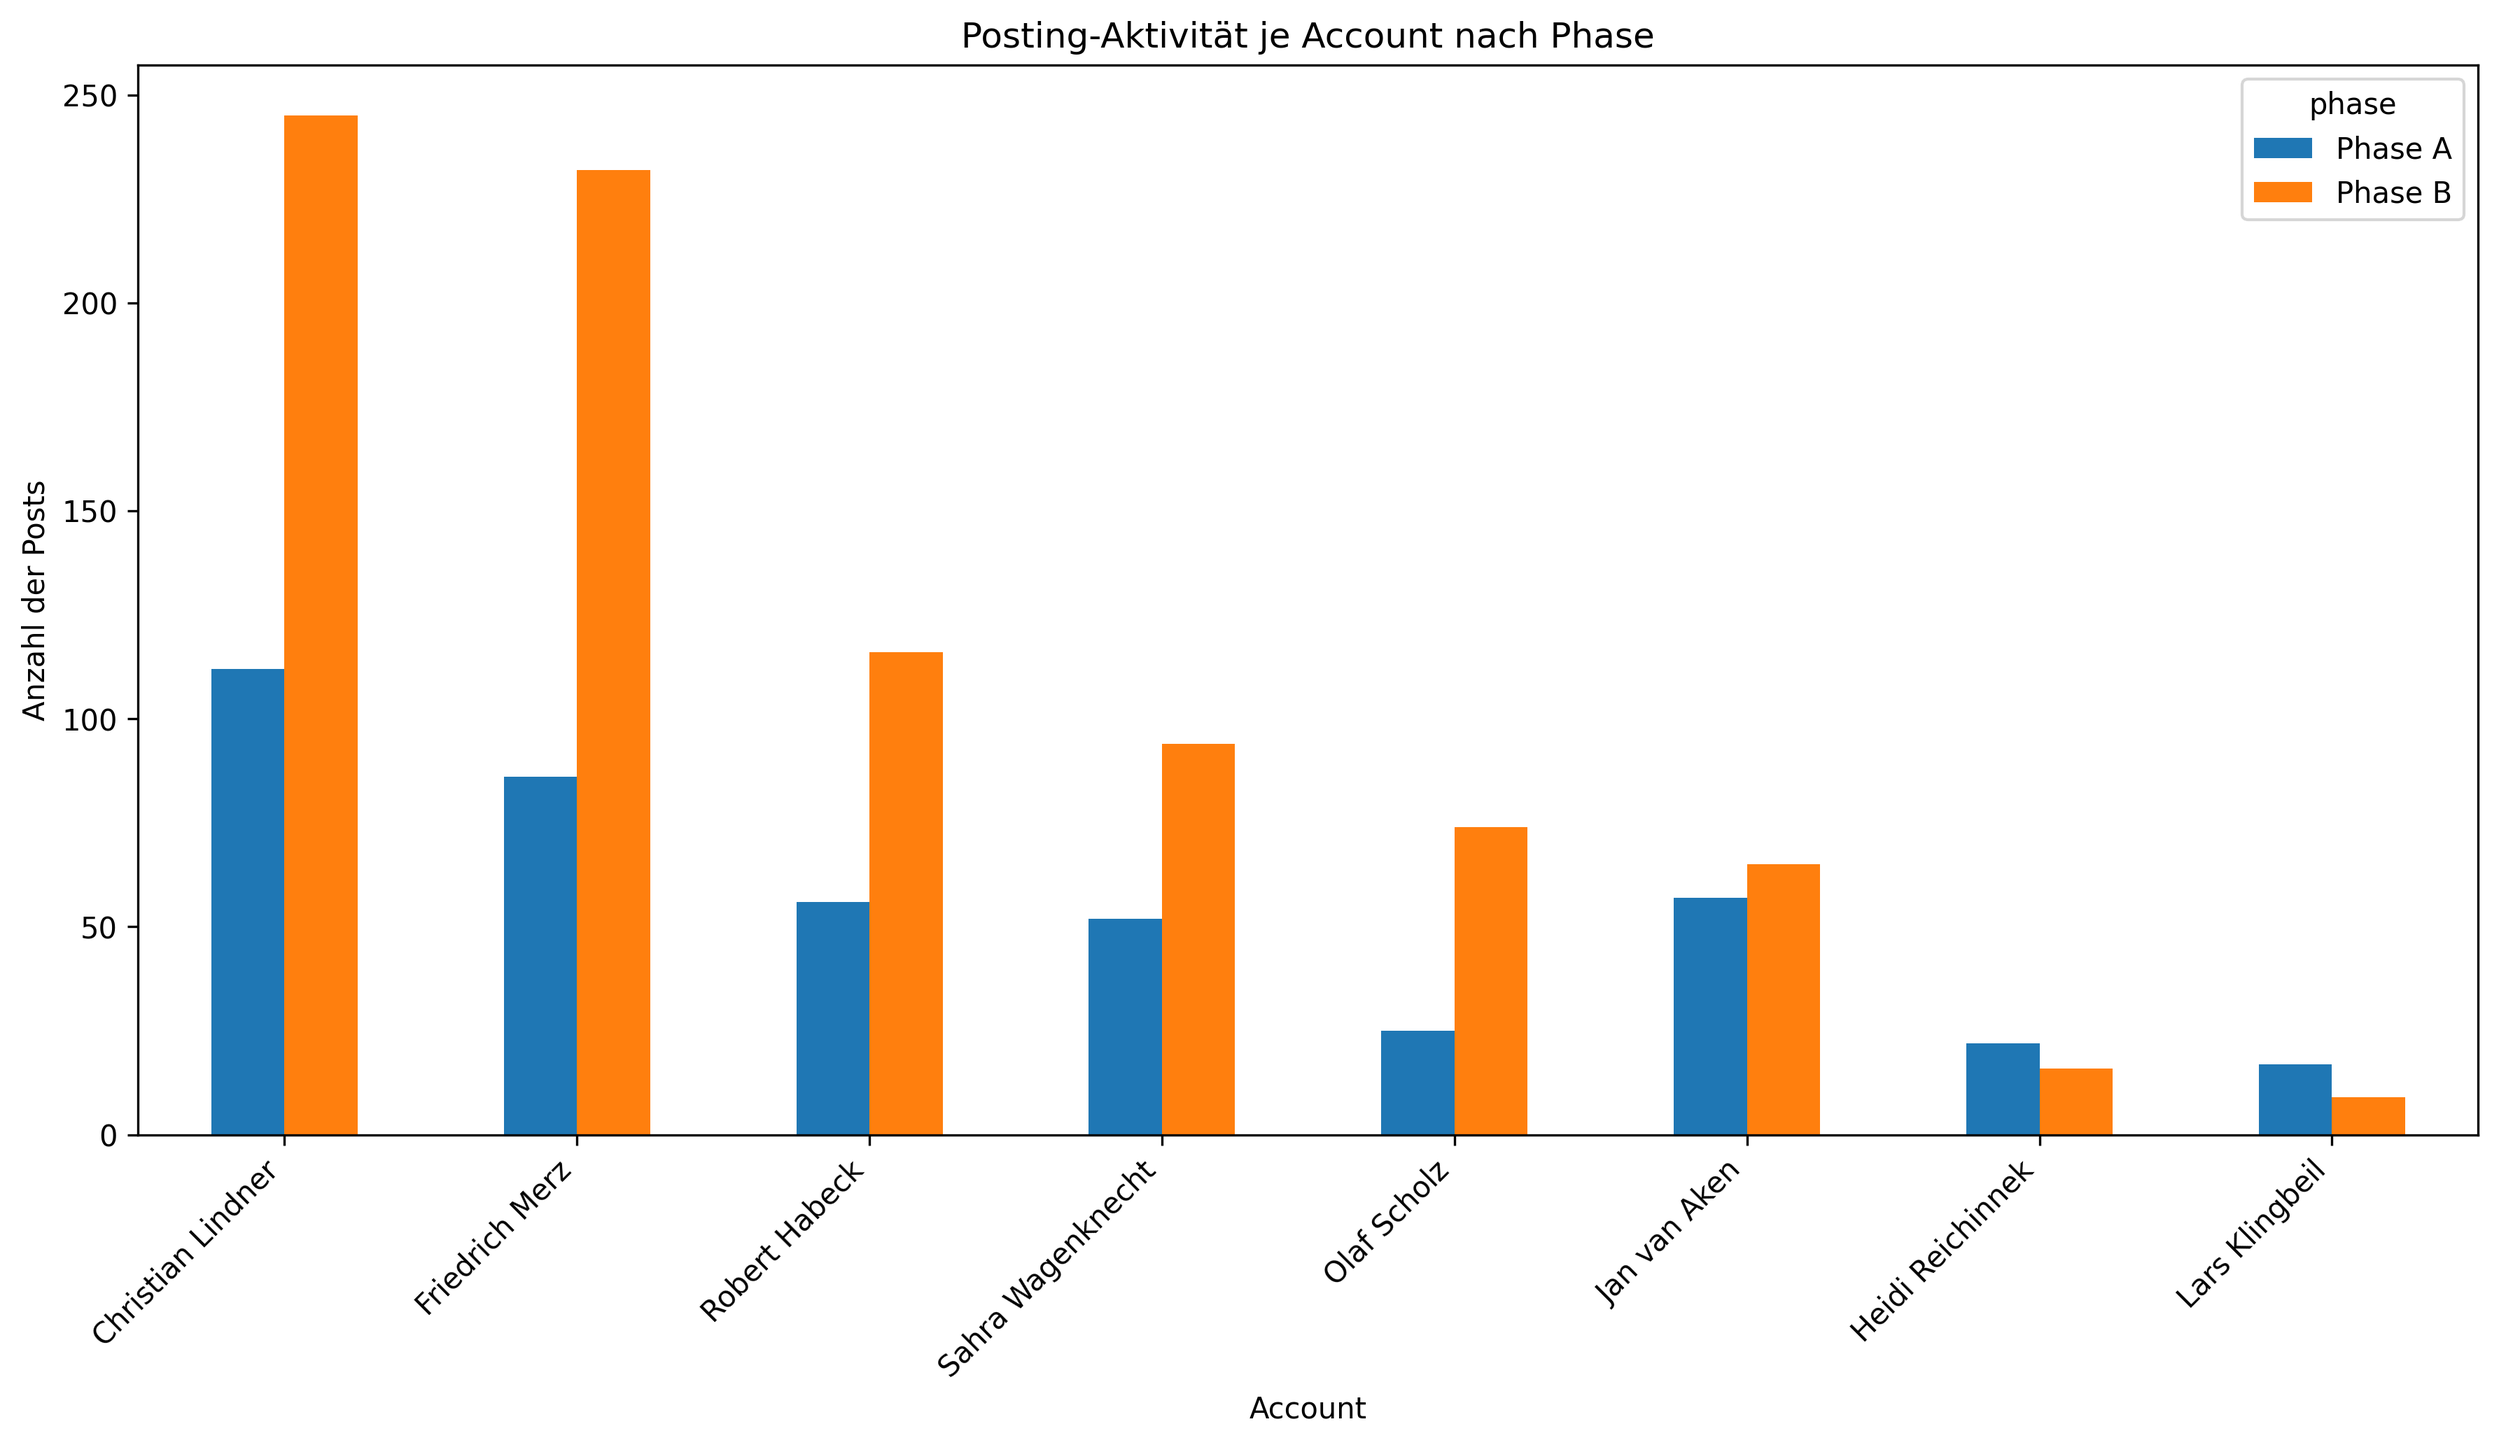
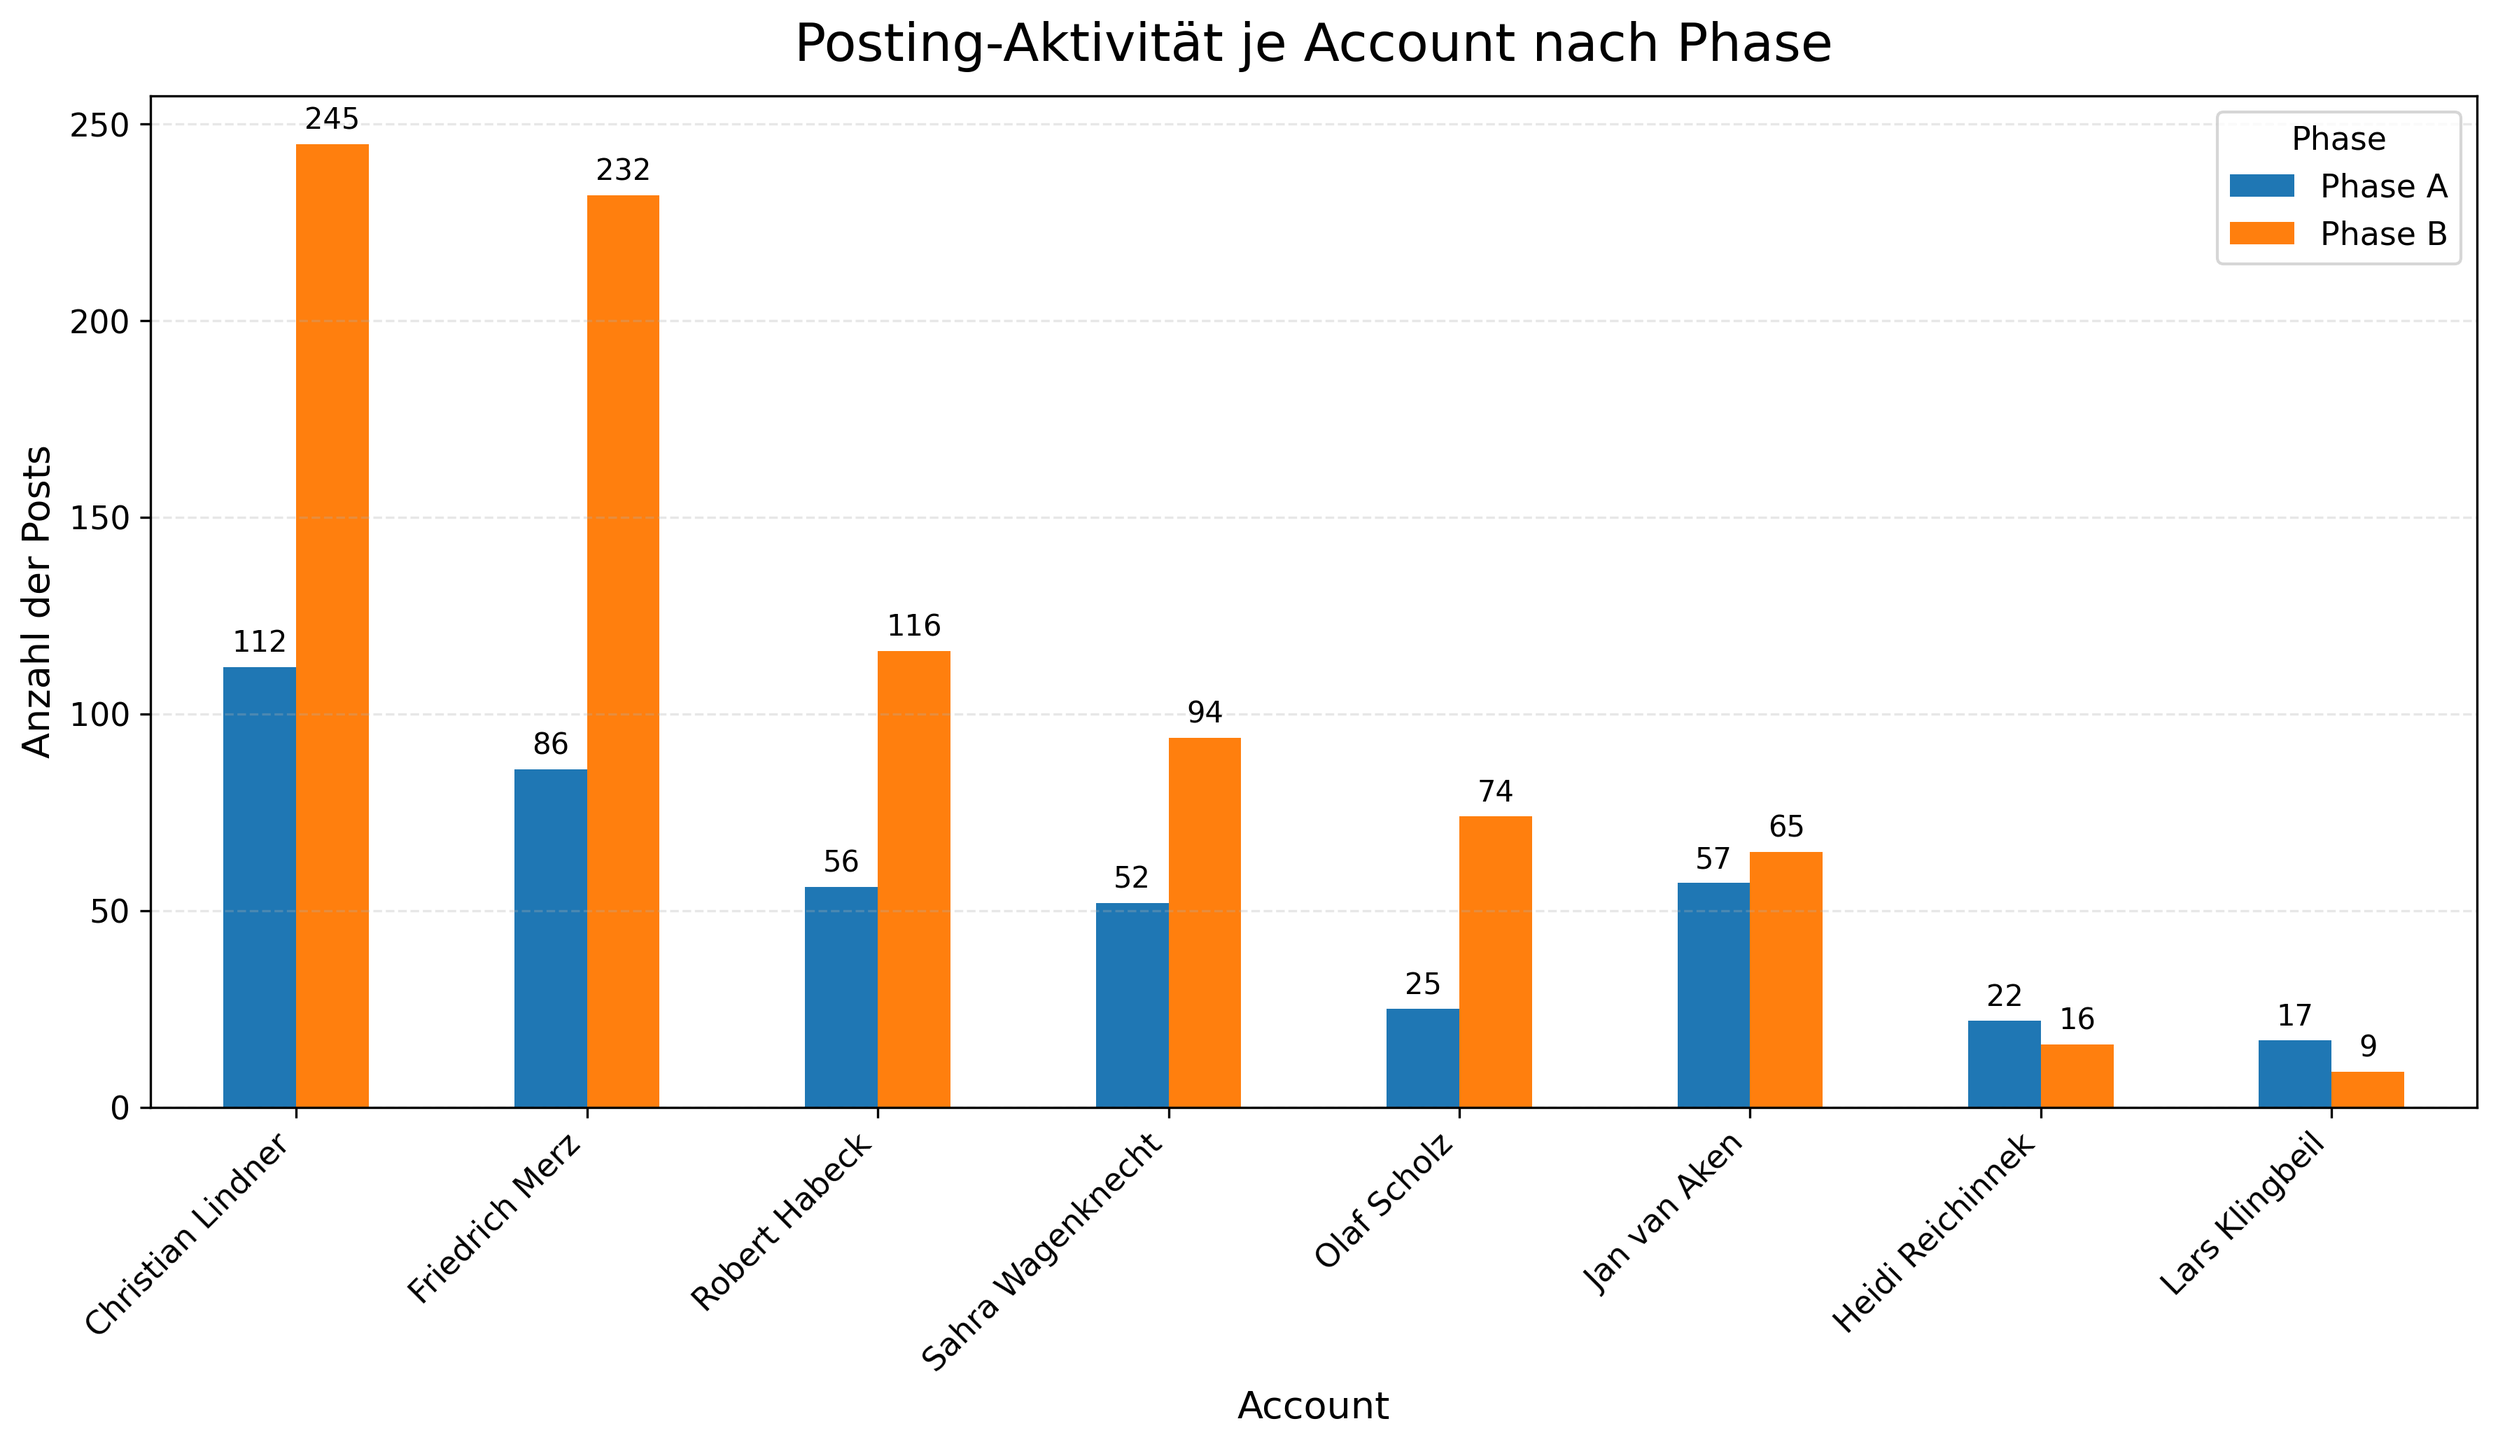
Refine activity visualizations for report

diff --git a/scripts/09_visualize_activity.py b/scripts/09_visualize_activity.py
@@ -35,6 +35,18 @@ OUTPUT_OVER_TIME = OUTPUT_DIR / "activity_over_time.png"
 OUTPUT_BY_PHASE = OUTPUT_DIR / "activity_by_phase.png"
 OUTPUT_TOTAL = OUTPUT_DIR / "activity_total.png"
 
+PHASE_ORDER = ["Phase A", "Phase B"]
+
+FIGSIZE_OVER_TIME = (12, 6)
+FIGSIZE_BY_PHASE = (12, 7)
+FIGSIZE_TOTAL = (12, 7)
+DPI = 300
+
+TITLE_SIZE = 18
+LABEL_SIZE = 13
+TICK_SIZE = 11
+LEGEND_SIZE = 11
+
 
 def ensure_output_directory() -> None:
     """
@@ -50,7 +62,6 @@ def load_data() -> tuple[pd.DataFrame, pd.DataFrame, pd.DataFrame]:
     weekly_df = pd.read_csv(WEEKLY_ACTIVITY_PATH)
     phase_df = pd.read_csv(PHASE_ACTIVITY_PATH)
     total_df = pd.read_csv(TOTAL_ACTIVITY_PATH)
-
     return weekly_df, phase_df, total_df
 
 
@@ -64,6 +75,21 @@ def sort_year_week_labels(labels: list[str]) -> list[str]:
         return int(year_part), int(week_part)
 
     return sorted(labels, key=sort_key)
+
+
+def add_bar_labels(ax: plt.Axes) -> None:
+    """
+    Schreibt ganzzahlige Werte oberhalb der Balken.
+    """
+    for container in ax.containers:
+        labels = []
+        for bar in container:
+            height = bar.get_height()
+            if pd.isna(height):
+                labels.append("")
+            else:
+                labels.append(f"{int(round(height))}")
+        ax.bar_label(container, labels=labels, padding=3, fontsize=10)
 
 
 def plot_activity_over_time(weekly_df: pd.DataFrame) -> None:
@@ -84,14 +110,24 @@ def plot_activity_over_time(weekly_df: pd.DataFrame) -> None:
     )
     aggregated = aggregated.sort_values("year_week")
 
-    plt.figure(figsize=(12, 6))
-    plt.plot(aggregated["year_week"].astype(str), aggregated["post_count"], marker="o")
-    plt.title("Posting-Aktivität pro Woche")
-    plt.xlabel("Kalenderwoche")
-    plt.ylabel("Anzahl der Posts")
-    plt.xticks(rotation=45, ha="right")
+    fig, ax = plt.subplots(figsize=FIGSIZE_OVER_TIME)
+    ax.plot(
+        aggregated["year_week"].astype(str),
+        aggregated["post_count"],
+        marker="o",
+        linewidth=2
+    )
+
+    ax.set_title("Posting-Aktivität pro Woche", fontsize=TITLE_SIZE, pad=12)
+    ax.set_xlabel("Kalenderwoche", fontsize=LABEL_SIZE)
+    ax.set_ylabel("Anzahl der Posts", fontsize=LABEL_SIZE)
+    ax.tick_params(axis="x", rotation=45, labelsize=TICK_SIZE)
+    ax.tick_params(axis="y", labelsize=TICK_SIZE)
+    plt.xticks(ha="right")
+    ax.grid(axis="y", linestyle="--", alpha=0.3)
+
     plt.tight_layout()
-    plt.savefig(OUTPUT_OVER_TIME, dpi=300, bbox_inches="tight")
+    plt.savefig(OUTPUT_OVER_TIME, dpi=DPI, bbox_inches="tight")
     plt.close()
 
 
@@ -107,20 +143,30 @@ def plot_activity_by_phase(phase_df: pd.DataFrame) -> None:
         fill_value=0
     ).copy()
 
-    for phase_name in ["Phase A", "Phase B"]:
+    for phase_name in PHASE_ORDER:
         if phase_name not in pivot_df.columns:
             pivot_df[phase_name] = 0
 
-    pivot_df = pivot_df[["Phase A", "Phase B"]]
-    pivot_df = pivot_df.sort_values("Phase B", ascending=False)
+    pivot_df = pivot_df[PHASE_ORDER]
+    pivot_df["total_posts"] = pivot_df.sum(axis=1)
+    pivot_df = pivot_df.sort_values(["Phase B", "Phase A"], ascending=False)
+    pivot_df = pivot_df.drop(columns=["total_posts"])
 
-    ax = pivot_df.plot(kind="bar", figsize=(12, 7))
-    ax.set_title("Posting-Aktivität je Account nach Phase")
-    ax.set_xlabel("Account")
-    ax.set_ylabel("Anzahl der Posts")
-    plt.xticks(rotation=45, ha="right")
+    ax = pivot_df.plot(kind="bar", figsize=FIGSIZE_BY_PHASE)
+
+    ax.set_title("Posting-Aktivität je Account nach Phase", fontsize=TITLE_SIZE, pad=12)
+    ax.set_xlabel("Account", fontsize=LABEL_SIZE)
+    ax.set_ylabel("Anzahl der Posts", fontsize=LABEL_SIZE)
+    ax.tick_params(axis="x", rotation=45, labelsize=TICK_SIZE)
+    ax.tick_params(axis="y", labelsize=TICK_SIZE)
+    plt.xticks(ha="right")
+    ax.legend(title="Phase", fontsize=LEGEND_SIZE, title_fontsize=LEGEND_SIZE)
+    ax.grid(axis="y", linestyle="--", alpha=0.3)
+
+    add_bar_labels(ax)
+
     plt.tight_layout()
-    plt.savefig(OUTPUT_BY_PHASE, dpi=300, bbox_inches="tight")
+    plt.savefig(OUTPUT_BY_PHASE, dpi=DPI, bbox_inches="tight")
     plt.close()
 
 
@@ -131,14 +177,21 @@ def plot_total_activity(total_df: pd.DataFrame) -> None:
     """
     plot_df = total_df.sort_values("total_posts", ascending=False).copy()
 
-    plt.figure(figsize=(12, 7))
-    plt.bar(plot_df["account_name"], plot_df["total_posts"])
-    plt.title("Gesamtaktivität je Account")
-    plt.xlabel("Account")
-    plt.ylabel("Anzahl der Posts")
-    plt.xticks(rotation=45, ha="right")
+    fig, ax = plt.subplots(figsize=FIGSIZE_TOTAL)
+    bars = ax.bar(plot_df["account_name"], plot_df["total_posts"])
+
+    ax.set_title("Gesamtaktivität je Account", fontsize=TITLE_SIZE, pad=12)
+    ax.set_xlabel("Account", fontsize=LABEL_SIZE)
+    ax.set_ylabel("Anzahl der Posts", fontsize=LABEL_SIZE)
+    ax.tick_params(axis="x", rotation=45, labelsize=TICK_SIZE)
+    ax.tick_params(axis="y", labelsize=TICK_SIZE)
+    plt.xticks(ha="right")
+    ax.grid(axis="y", linestyle="--", alpha=0.3)
+
+    ax.bar_label(bars, labels=[str(int(value)) for value in plot_df["total_posts"]], padding=3, fontsize=10)
+
     plt.tight_layout()
-    plt.savefig(OUTPUT_TOTAL, dpi=300, bbox_inches="tight")
+    plt.savefig(OUTPUT_TOTAL, dpi=DPI, bbox_inches="tight")
     plt.close()
 
 
